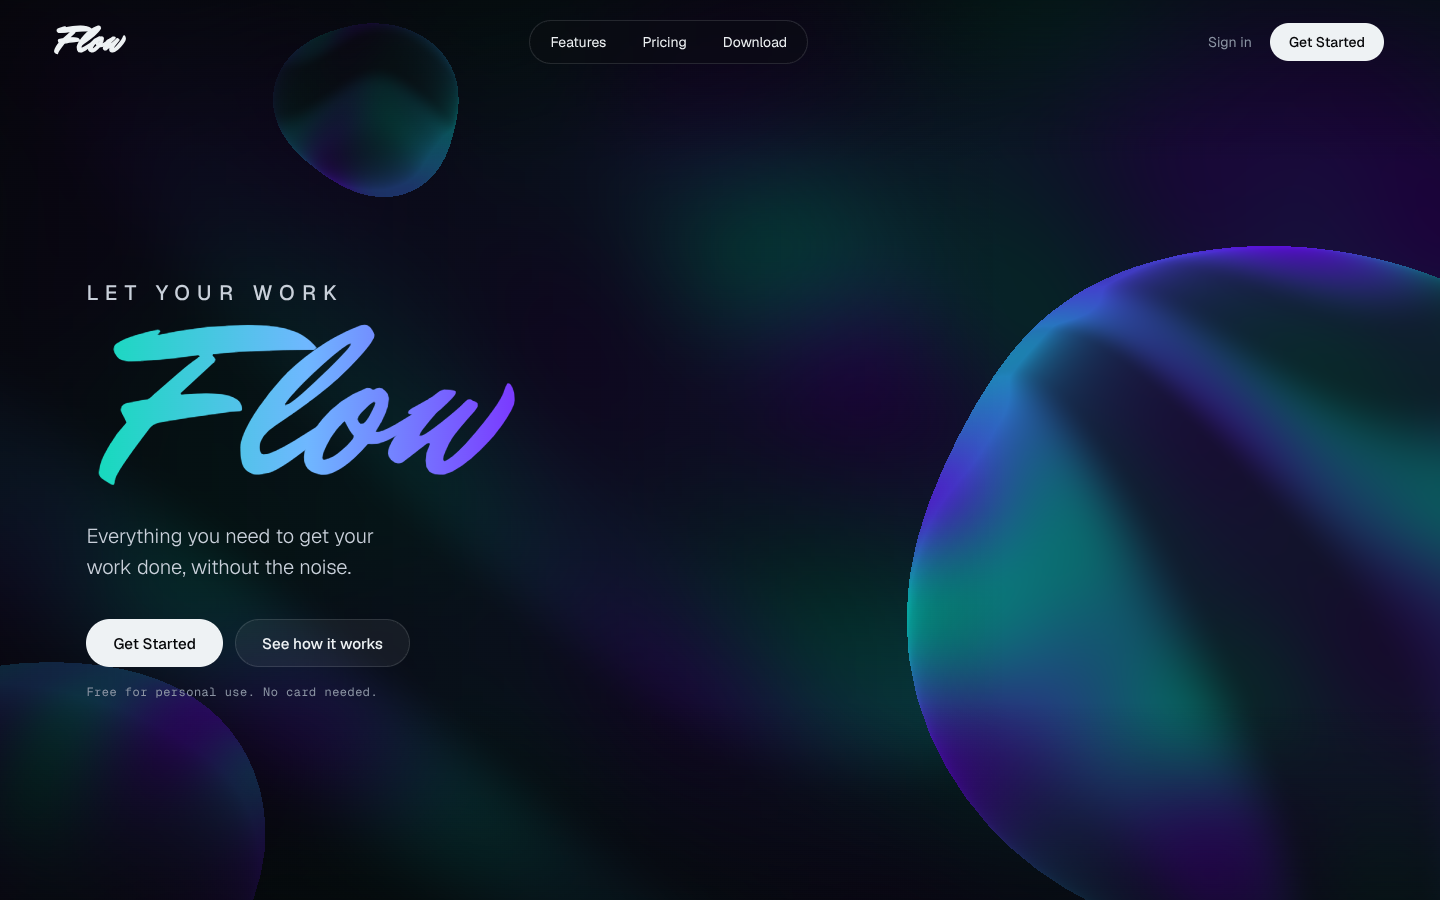
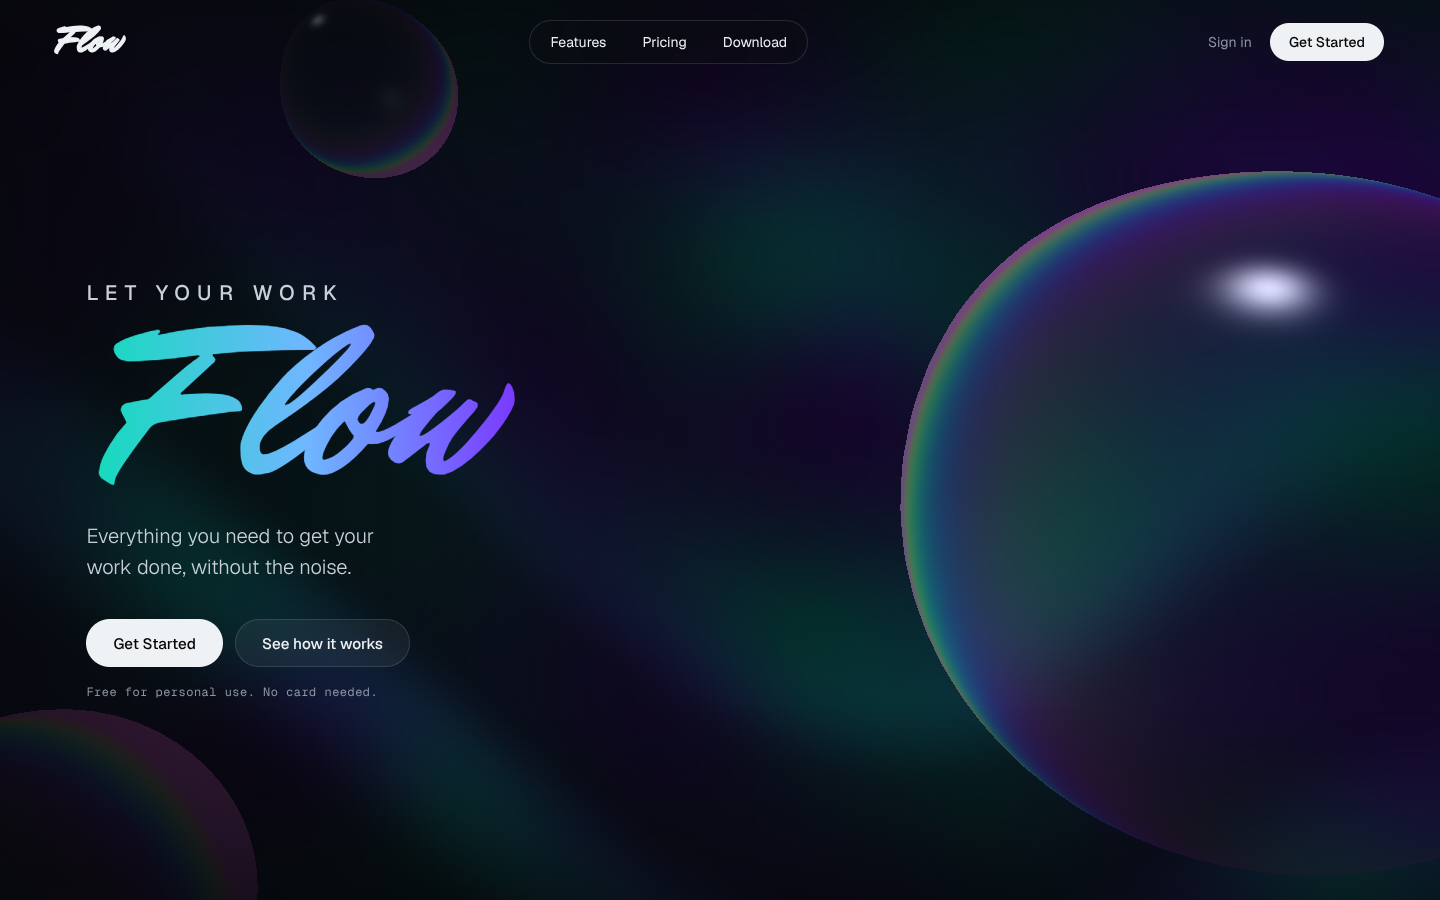
Clear refracting bubbles, flowing letters, and a hero that clears itself
From comments on the preview:
- Bubbles: the glass shader is replaced with real refraction. Each bubble
  redraws the background field behind it, bent through its curved surface,
  with a thin-film rim and a small highlight. The constant wobble is
  smaller so outlines stay round, and the cursor swell releases sooner.
- "Flow": while the colour streams, the word rides a baseline that rolls as
  a slow wave, so the joined letters sway together and stay crisp (a
  displacement filter frayed the brush edges).
- The tagline, buttons and note recede after 2.6 s without interaction and
  return on any pointer, key or wheel input, including moves over the
  background frame, which now posts a throttled message to the page. They
  show first on arrival, never hide while a button has keyboard focus, and
  stay visible on touch screens. The entrance animation fills backwards
  only, so the fade can transition.

Claude-Session: https://claude.ai/code/session_01Jf9pttvRY5HTnhp8tYBwzY

Changed region(s): [[0.625, 0.1867, 1.0, 1.0], [0.0, 0.7156, 0.1875, 0.9644], [0.1875, 0.0933, 0.3438, 0.2178]]

diff --git a/src/components/LiquidDimensionalField.tsx b/src/components/LiquidDimensionalField.tsx
@@ -10,6 +10,8 @@ import dimensionalSource from "../shaders/neuform-isolated/sources/vanguard-dime
    outlines stay perfect arcs. Here their surface flows instead. Slow waves
    ripple it all the time; near the cursor a bubble swells softly, grows a
    little and drifts away from the pointer, then floats back when it rests.
+   The bubbles are clear, refracting the background through their curved
+   surface with a thin-film rim and a highlight, like real bubbles.
    The beams keep a dim floor of light so the background never empties.
    The colours, camera parallax and timing are the authored effect. */
 
@@ -30,9 +32,10 @@ const LIQUID_VERTEX = `uniform float u_time;
 
                     void main() {
                         float t = u_time;
-                        // a liquid surface: each point rides out and in along its normal
-                        float w = wobble(position, t);
-                        vec3 p = position + normal * 0.11 * w;
+                        // a liquid surface: each point rides gently out and in along its
+                        // normal, enough to keep the outline alive while it stays a round arc
+                        float w = wobble(position, t * 0.8);
+                        vec3 p = position + normal * 0.045 * w;
                         vec4 world = modelMatrix * vec4(p, 1.0);
 
                         // drawn toward the pointer as a broad, soft swell: the surface moves
@@ -62,6 +65,7 @@ const POINTER_ANCHOR = "const resize = () => {";
 const POINTER_TRACKING = `// liquid: where the pointer is in the scene, and whether it is in play
             const liquidTarget = new THREE.Vector3();
             let liquidLastMove = -1e9;
+            let liquidLastPost = -1e9;
             let liquidLastFrame = performance.now();
             document.addEventListener('mousemove', (event) => {
                 const ray = new THREE.Vector3((event.clientX / window.innerWidth) * 2 - 1, -(event.clientY / window.innerHeight) * 2 + 1, 0.5);
@@ -69,6 +73,11 @@ const POINTER_TRACKING = `// liquid: where the pointer is in the scene, and whet
                 const distance = -camera.position.z / ray.z;
                 liquidTarget.copy(camera.position).add(ray.multiplyScalar(distance));
                 liquidLastMove = performance.now();
+                // tell the host page the pointer is moving, at most a few times a second
+                if (liquidLastMove - liquidLastPost > 200 && window.parent !== window) {
+                    liquidLastPost = liquidLastMove;
+                    window.parent.postMessage({ flowPointer: true }, '*');
+                }
             });
             document.documentElement.addEventListener('mouseleave', () => { liquidLastMove = -1e9; });
 
@@ -81,8 +90,8 @@ const FRAME_ADDED = `${FRAME_ANCHOR}
                 const liquidNow = performance.now();
                 const liquidDt = Math.min(0.1, (liquidNow - liquidLastFrame) / 1000);
                 liquidLastFrame = liquidNow;
-                const liquidGoal = liquidNow - liquidLastMove < 2500 ? 1 : 0;
-                uniforms.u_pull.value += (liquidGoal - uniforms.u_pull.value) * (1 - Math.exp(-liquidDt / (liquidGoal ? 0.35 : 0.9)));
+                const liquidGoal = liquidNow - liquidLastMove < 1200 ? 1 : 0;
+                uniforms.u_pull.value += (liquidGoal - uniforms.u_pull.value) * (1 - Math.exp(-liquidDt / (liquidGoal ? 0.35 : 0.6)));
                 uniforms.u_pointer.value.lerp(liquidTarget, 1 - Math.exp(-liquidDt / 0.12));`;
 
 // the beams: authored, they fade fully out between passes, so the background
@@ -90,8 +99,53 @@ const FRAME_ADDED = `${FRAME_ANCHOR}
 // and the passes swell over it instead of appearing from nothing.
 const BG_BEAM = "float beam = smoothstep(0.2, 0.9, snoise(vec2(st.x + st.y * 2.0 - u_time * 0.1, u_time * 0.03)));";
 const BG_BEAM_STEADY = "float beam = 0.3 + 0.7 * smoothstep(-0.45, 0.9, snoise(vec2(st.x + st.y * 2.0 - u_time * 0.1, u_time * 0.03)));";
-const GLASS_BEAM = "float beam = smoothstep(0.1, 0.9, snoise(vec2(st.x + st.y * 1.8 - u_time * 0.12, u_time * 0.02)));";
-const GLASS_BEAM_STEADY = "float beam = 0.28 + 0.72 * smoothstep(-0.4, 0.9, snoise(vec2(st.x + st.y * 1.8 - u_time * 0.12, u_time * 0.02)));";
+
+// the bubbles, as real bubbles. Authored, each one paints its own opaque beam
+// pattern. Here a bubble is clear: it redraws the background field behind it,
+// sampled through its curved surface so the scene bends and magnifies toward
+// the rim like a lens, then adds a thin-film rim whose colours shift with the
+// viewing angle and a soft window highlight. The field function is the
+// background shader's own, so what shows through matches what is behind.
+const GLASS_FRAGMENT = /varying vec3 vNormal;\s*\$\{snoiseLogic\}\s*void main\(\) \{[\s\S]*?gl_FragColor = vec4\(finalColor, 0\.95\);\s*\}/;
+const GLASS_REFRACTION = `varying vec3 vNormal;
+                    \${snoiseLogic}
+
+                    // the background at a point on screen: the same steps as the background shader
+                    vec3 fieldAt(vec2 screen) {
+                        vec2 uv = screen;
+                        uv.x *= u_resolution.x / u_resolution.y;
+                        vec3 baseColor = vec3(0.02, 0.02, 0.03);
+                        vec2 st = uv * 0.5;
+                        st += vec2(snoise(st + u_time * 0.04), snoise(st - u_time * 0.04)) * 0.4;
+                        float beam = 0.3 + 0.7 * smoothstep(-0.45, 0.9, snoise(vec2(st.x + st.y * 2.0 - u_time * 0.1, u_time * 0.03)));
+                        vec3 glow = mix(u_color1, u_color2, snoise(uv * 2.0 + u_time * 0.15) * 0.5 + 0.5);
+                        float vignette = smoothstep(1.5, 0.1, distance(screen, vec2(0.5)));
+                        return mix(vec3(0.01, 0.01, 0.015), mix(baseColor, glow, beam * 0.6), vignette);
+                    }
+
+                    void main() {
+                        vec2 screen = gl_FragCoord.xy / u_resolution.xy;
+                        vec3 n = normalize(vNormal);
+                        float facing = clamp(n.z, 0.0, 1.0);
+                        float fresnel = pow(1.0 - facing, 2.2);
+
+                        // refraction: the view through the bubble bends, more toward the rim
+                        vec2 bend = n.xy * (0.05 + 0.12 * fresnel);
+                        vec3 behind = fieldAt(screen - bend);
+
+                        // thin film: colours that shift with the viewing angle and drift slowly
+                        vec3 film = 0.5 + 0.5 * cos(6.2831 * (fresnel * 1.35 + u_time * 0.035 + vec3(0.0, 0.33, 0.67)));
+                        film = mix(film, vec3(1.0), 0.2);
+                        vec3 rim = film * fresnel * 0.38 + mix(u_color1, u_color2, 0.5) * fresnel * 0.16;
+
+                        // a soft window highlight up and to the left, and a faint one opposite
+                        float spec = pow(max(dot(n, normalize(vec3(-0.45, 0.55, 0.7))), 0.0), 220.0) * 0.75
+                                   + pow(max(dot(n, normalize(vec3(0.5, -0.45, 0.75))), 0.0), 60.0) * 0.08;
+
+                        // the clear centre lets the scene through almost untouched, a touch brighter
+                        vec3 color = behind * (0.95 + 0.12 * facing) + rim + vec3(spec);
+                        gl_FragColor = vec4(color, 1.0);
+                    }`;
 
 // the bubbles drift: a bubble near the cursor eases away from it and grows a
 // little, then floats back and settles when the cursor moves off. Springs are
@@ -135,7 +189,7 @@ function liquefy(source: string) {
     [POINTER_ANCHOR, POINTER_TRACKING],
     [FRAME_ANCHOR, FRAME_ADDED],
     [BG_BEAM, BG_BEAM_STEADY],
-    [GLASS_BEAM, GLASS_BEAM_STEADY],
+    [GLASS_FRAGMENT, GLASS_REFRACTION],
     [RENDER_ANCHOR, RENDER_DRIFT],
   ];
   let out = source;

diff --git a/src/components/FlowHero.tsx b/src/components/FlowHero.tsx
@@ -33,6 +33,7 @@ function FlowWord() {
   const textRef = useRef<SVGTextElement>(null);
   const surfaceRef = useRef<SVGPathElement>(null);
   const inkRef = useRef<SVGLinearGradientElement>(null);
+  const baselineRef = useRef<SVGPathElement>(null);
   const hovered = useRef(false);
 
   useEffect(() => {
@@ -41,7 +42,8 @@ function FlowWord() {
     const text = textRef.current;
     const surface = surfaceRef.current;
     const ink = inkRef.current;
-    if (!word || !svg || !text || !surface || !ink) return undefined;
+    const baseline = baselineRef.current;
+    if (!word || !svg || !text || !surface || !ink || !baseline) return undefined;
 
     // fit the drawing to where the ink actually is, swashes included. SVG's
     // getBBox reports the font's whole line box, and this script reserves a
@@ -89,14 +91,27 @@ function FlowWord() {
       const bottom = box.y + box.height;
       let down = "";
       let up = "";
-      for (let y = top; y <= bottom + 4; y += 4) {
+      const step = EM / 25;
+      for (let y = top; y <= bottom + step; y += step) {
         down += `${down ? " L" : "M"}${edgeAt(head, y, clock, 0).toFixed(1)} ${y.toFixed(1)}`;
       }
-      for (let y = bottom + 4; y >= top; y -= 4) {
+      for (let y = bottom + step; y >= top; y -= step) {
         up += ` L${edgeAt(tail, y, clock, 1.7).toFixed(1)} ${y.toFixed(1)}`;
       }
       surface.setAttribute("d", `${down}${up} Z`);
     };
+    // the line the word sits on: flat at rest, a travelling wave while it flows
+    const drawBaseline = (live: number, clock: number) => {
+      const length = box.x + box.width + EM;
+      const amplitude = live * 0.045 * EM;
+      let d = "M0 0";
+      for (let x = EM / 20; x <= length; x += EM / 20) {
+        const y = amplitude * Math.sin((x / EM) * 2.6 - clock * 3.2);
+        d += ` L${x.toFixed(1)} ${y.toFixed(2)}`;
+      }
+      baseline.setAttribute("d", d);
+    };
+    drawBaseline(0, 0);
     drawStream(0, 0, 0);
     if (window.matchMedia("(prefers-reduced-motion: reduce)").matches) {
       return () => document.fonts.removeEventListener("loadingdone", fit);
@@ -122,6 +137,12 @@ function FlowWord() {
           nextRun = clock + POUR.restMin + Math.random() * (POUR.restMax - POUR.restMin);
         }
       }
+
+      // while the stream runs, the lettering itself moves like liquid: the word
+      // rides a baseline that rolls as a slow wave, so the joined letters sway
+      // together and stay crisp vector shapes
+      const live = runTime >= 0 ? Math.sin(Math.PI * Math.min(1, runTime / POUR.run)) : 0;
+      drawBaseline(live, clock);
 
       if (runTime >= 0) {
         // the head runs from before the F's tip to past the w; the tail follows
@@ -169,19 +190,76 @@ function FlowWord() {
           <clipPath id="flow-word-surface">
             <path ref={surfaceRef} />
           </clipPath>
+          {/* the baseline both layers of lettering ride on */}
+          <path ref={baselineRef} id="flow-word-baseline" d="M0 0 L1000 0" />
         </defs>
-        <text ref={textRef} className="flow-word__text" x="0" y="0" fill="url(#flow-word-ink)">{SIGNATURE_WORD}</text>
+        <text ref={textRef} className="flow-word__text" fontSize={EM} fill="url(#flow-word-ink)">
+          <textPath href="#flow-word-baseline">{SIGNATURE_WORD}</textPath>
+        </text>
         {/* the same lettering in liquid, shown only inside the travelling stream */}
-        <text className="flow-word__text" x="0" y="0" fill="url(#flow-word-liquid)" clipPath="url(#flow-word-surface)">{SIGNATURE_WORD}</text>
+        <text className="flow-word__text" fontSize={EM} fill="url(#flow-word-liquid)" clipPath="url(#flow-word-surface)">
+          <textPath href="#flow-word-baseline">{SIGNATURE_WORD}</textPath>
+        </text>
       </svg>
       <span className="visually-hidden">{SIGNATURE_WORD}</span>
     </span>
   );
 }
 
+/* The supporting text and the two buttons come forward while someone is
+   interacting and recede after a short pause, so a still screen shows only
+   the name over the moving background. They show first for a few seconds on
+   arrival, never hide while one of them has keyboard focus, and stay put on
+   touch screens, where there is no cursor to bring them back. */
+const IDLE_MS = 2600;
+const FIRST_SHOW_MS = 4200;
+
+function useRecedeWhenIdle() {
+  const ref = useRef<HTMLElement>(null);
+  useEffect(() => {
+    const section = ref.current;
+    if (!section) return undefined;
+    if (!window.matchMedia("(hover: hover) and (pointer: fine)").matches) return undefined;
+
+    let timer = window.setTimeout(() => recede(), FIRST_SHOW_MS);
+    function recede() {
+      if (section!.querySelector(".flow-hero__ctas:focus-within")) return;
+      section!.dataset.idle = "true";
+    }
+    const wake = () => {
+      delete section.dataset.idle;
+      clearTimeout(timer);
+      timer = window.setTimeout(recede, IDLE_MS);
+    };
+
+    // the background is its own frame, and moves over it never reach this
+    // page, so the frame posts a short message whenever the pointer moves in it
+    const onMessage = (event: MessageEvent) => {
+      if (event.data && event.data.flowPointer === true) wake();
+    };
+
+    window.addEventListener("pointermove", wake, { passive: true });
+    window.addEventListener("keydown", wake);
+    window.addEventListener("wheel", wake, { passive: true });
+    window.addEventListener("message", onMessage);
+    section.addEventListener("focusin", wake);
+    return () => {
+      clearTimeout(timer);
+      window.removeEventListener("pointermove", wake);
+      window.removeEventListener("keydown", wake);
+      window.removeEventListener("wheel", wake);
+      window.removeEventListener("message", onMessage);
+      section.removeEventListener("focusin", wake);
+      delete section.dataset.idle;
+    };
+  }, []);
+  return ref;
+}
+
 export function FlowHero() {
+  const sectionRef = useRecedeWhenIdle();
   return (
-    <section className="flow-hero" aria-labelledby="flow-hero-title">
+    <section ref={sectionRef} className="flow-hero" aria-labelledby="flow-hero-title">
       {/* decorative background: the pointer still reaches it, so the camera keeps its
           authored parallax and the liquid bubbles can reach toward the cursor */}
       <div className="flow-hero__bg shader-frame" aria-hidden="true">

diff --git a/src/components/FlowHero.css b/src/components/FlowHero.css
@@ -232,9 +232,9 @@ summary:focus-visible {
   overflow: visible;
 }
 
+/* the size is set on the element in drawing units (see EM in FlowHero) */
 .flow-word__text {
   font-family: var(--font-display);
-  font-size: 100px;
 }
 
 .visually-hidden {
@@ -275,6 +275,28 @@ summary:focus-visible {
   margin-top: 16px;
 }
 
+/* ── recede when idle (driven by useRecedeWhenIdle) ─────────────
+   the supporting text and buttons come forward while someone interacts and
+   recede after a pause; they stay in the layout and remain clickable, so
+   reaching for one brings it straight back */
+.flow-hero__lede,
+.flow-hero__ctas,
+.flow-hero__note {
+  transition:
+    opacity 700ms cubic-bezier(0.2, 0.8, 0.2, 1),
+    transform 700ms cubic-bezier(0.2, 0.8, 0.2, 1),
+    filter 700ms ease;
+}
+
+.flow-hero[data-idle="true"] .flow-hero__lede,
+.flow-hero[data-idle="true"] .flow-hero__ctas,
+.flow-hero[data-idle="true"] .flow-hero__note {
+  opacity: 0;
+  filter: blur(6px);
+  transform: translateY(10px);
+  transition-duration: 1100ms;
+}
+
 /* ── load sequence ─────────────────────────────────────────── */
 
 @media (prefers-reduced-motion: no-preference) {
@@ -282,7 +304,8 @@ summary:focus-visible {
   .flow-hero__lede,
   .flow-hero__ctas,
   .flow-hero__note {
-    animation: flow-rise 900ms cubic-bezier(0.2, 0.8, 0.2, 1) both;
+    /* backwards only: once in, the elements are free to transition when they recede */
+    animation: flow-rise 900ms cubic-bezier(0.2, 0.8, 0.2, 1) backwards;
   }
 
   .flow-hero__line:nth-child(1) { animation-delay: 120ms; }

diff --git a/docs/PROCESS.md b/docs/PROCESS.md
@@ -110,6 +110,8 @@ This took the most rounds, and most of the direction came from me.
 
 8. **Connected lettering.** Watching closely, I saw the script's letters break apart during the pour: each letter was a separate piece, and swelling them one by one pulled the joins open. **Flow** is now drawn as one piece of SVG lettering that can't come apart. Its box is fitted to the actual ink (the font reserves a lot of empty space above and below its letters, which had pushed the layout apart).
 9. **Colour that follows the writing.** The liquid rose from the bottom of each letter; I asked for it to flow the way the word is written. A stream now enters at the tip of the F, runs into the l, through the o and out along the w, with a wavy edge slanted like the script, and drains away in the same direction. I also restored the tagline as the body copy under the name.
+10. **Letters that move.** I asked for the letters themselves to flow while the colour passes. A distortion filter frayed the brush edges, so instead the word rides a baseline that rolls as a slow wave: the joined letters sway together and stay crisp.
+11. **A hero that clears itself.** At my request, the tagline, buttons and note come forward while someone moves the cursor and recede after a short pause, leaving only the name over the moving background. They show first for a few seconds on arrival, never hide while a button has keyboard focus, and stay visible on touch screens. The background frame reports pointer movement to the page, since moves over a frame don't reach it otherwise.
 
 Lesson for my workflow: when I ask for a change to one thing (here, the typeface), I need to say explicitly what to keep (the animation). The AI otherwise tends to redo everything.
 
@@ -131,6 +133,7 @@ I noticed the background bubbles were rigid: perfect spheres whose outlines stay
 - Near the cursor, the surface swells softly outward like liquid being drawn, then relaxes when the pointer rests.
 - My first version pulled the surface *toward* the cursor, and I noticed it made the bubbles sharp: a crease formed where the cursor met an edge. Any movement aimed at the cursor's direction flips right at the cursor, so the swell now depends only on distance from it. That keeps the bubbles round and smooth while they react.
 - Following my comments: a bubble near the cursor now drifts away from it, grows slightly and swells smoothly, then floats back. The background's light beams keep a dim floor, so the scene never empties out between passes.
+- I then asked for the bubbles to look like real bubbles. Each one is now clear: it redraws the background behind it, bent through its curved surface like a lens, with a thin-film rainbow rim and a small highlight. The constant wobble was toned down so the outlines stay round arcs and settle back quickly after the cursor leaves.
 - If the source ever changes and the hooks no longer match, it falls back to the original effect instead of breaking.
 
 | At rest | Cursor near the right bubble |
@@ -156,6 +159,9 @@ I noticed the background bubbles were rigid: perfect spheres whose outlines stay
 | Script letters that broke apart during the pour | Spotted the breakage; asked for connected letters |
 | Colour rising from the bottom of each letter | Asked for it to flow F → l → o → w, the way the word is written |
 | Beams that faded out entirely; bubbles that only swelled | Asked for a steady background and bubbles that drift and expand near the cursor |
+| Opaque, lumpy bubbles | Asked for real refraction and round arcs that recover after interaction |
+| Static lettering during the colour flow | Asked for the letters themselves to flow |
+| Buttons and text always on screen | Asked for them to appear with interaction and recede when idle |
 | A static logo, then a wave effect in the original type | Pointed to Butter's melting brush wordmark as the reference, then redirected to letters connected by a drop |
 
 ## Reflection
